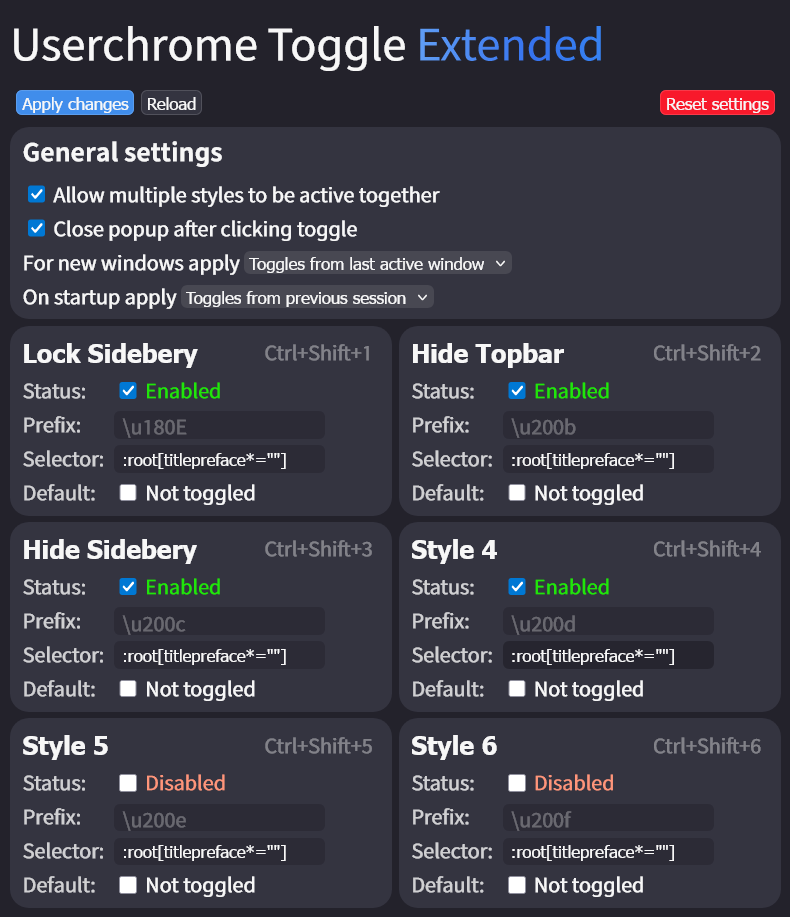
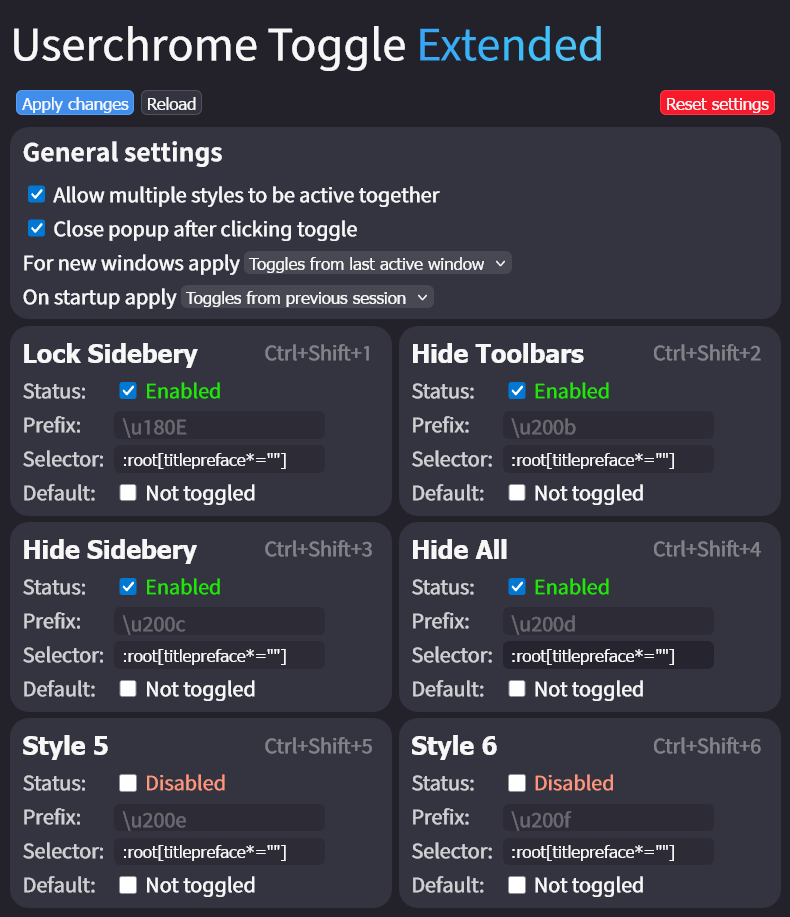
v3.3.1
Add shortcut for hiding all topbars and Sidebery.

Changed region(s): [[0.5165, 0.0305, 0.7595, 0.0916], [0.638, 0.3664, 0.7595, 0.3969], [0.5165, 0.5802, 0.638, 0.6107]]

diff --git a/chrome/components/uc-sidebar.css b/chrome/components/uc-sidebar.css
@@ -143,7 +143,7 @@
 
         /* When Sidebery's auto-collapse is disabled, limit the sidebar header width to the specified value */
         @media -moz-pref("uc.flex.disable-sidebery-autohide") and (not (-moz-pref("uc.flex.fully-hide-sidebery") or (display-mode: fullscreen))) {
-            :root:not([titlepreface*="\200c "]) & {
+            :root:not([titlepreface*="\200c "], [titlepreface*="\200d "]) & {
                 --sidebar-background-color: var(--uc-sidebar-bgcolor) !important;
                 #sidebar-header:not(:hover):not(:has(.active)) {
                     max-width: var(--uc-sidebar-header-width);
@@ -152,7 +152,11 @@
             }
         }
         @media not (-moz-pref("uc.flex.disable-sidebery-autohide") or -moz-pref("uc.flex.fully-hide-sidebery") or (display-mode: fullscreen)) {
-            :root:is([sidebar-expand-on-hover], [titlepreface*="\180e "]):not([titlepreface*="\200c "]) & {
+            :root:is([sidebar-expand-on-hover], [titlepreface*="\180e "]):not(
+                    [titlepreface*="\200c "],
+                    [titlepreface*="\200d "]
+                )
+                & {
                 --sidebar-background-color: var(--uc-sidebar-bgcolor) !important;
                 #sidebar-header:not(:hover):not(:has(.active)) {
                     max-width: var(--uc-sidebar-header-width);
@@ -208,7 +212,7 @@
         }
     }
     @media not -moz-pref("uc.flex.fully-hide-sidebery") {
-        :root[titlepreface*="\200c "] {
+        :root:is([titlepreface*="\200c "], [titlepreface*="\200d "]) {
             #sidebar-box[sidebarcommand="_3c078156-979c-498b-8990-85f7987dd929_-sidebar-action"]:not([hidden]) {
                 &:hover #sidebar-header:not(:hover):not(:has(.active)) {
                     min-height: 5px;
@@ -305,7 +309,7 @@
     }
 }
 @media not -moz-pref("uc.flex.fully-hide-sidebery") {
-    :root[titlepreface*="\200c "] {
+    :root:is([titlepreface*="\200c "], [titlepreface*="\200d "]) {
         #sidebar-box[sidebarcommand="_3c078156-979c-498b-8990-85f7987dd929_-sidebar-action"]:not([hidden]) {
             &:not(:is([positionend], [sidebar-positionend])) {
                 position: absolute !important;
@@ -363,7 +367,7 @@
         --uc-sb-sidebar-main-margin-top: 0px;
         --uc-sb-sidebar-main-stripe-height: 5px;
         @media -moz-pref("uc.flex.disable-bookmarks-autohide") and (not (-moz-pref("uc.flex.fully-hide-toolbox") or (display-mode: fullscreen))) {
-            :root:not([titlepreface*="\200b "]) & {
+            :root:not([titlepreface*="\200b "], [titlepreface*="\200d "]) & {
                 --uc-sb-sidebar-main-margin-top: var(--uc-bm-disable-autohide-offset);
             }
         }
@@ -406,7 +410,7 @@
                 --uc-sb-gradient-highlight: var(--uc-gradient-highlight);
             }
             @media -moz-pref("uc.flex.disable-sidebery-autohide") and (not (-moz-pref("uc.flex.fully-hide-sidebery") or (display-mode: fullscreen))) {
-                :root:not([titlepreface*="\200c "]) & {
+                :root:not([titlepreface*="\200c "], [titlepreface*="\200d "]) & {
                     --sidebar-background-color: var(--uc-sidebar-bgcolor) !important;
                     --uc-sb-sidebar-main-min-width: var(--uc-sidebar-header-width);
                     --uc-sb-sidebar-main-max-width: var(--uc-sidebar-header-width);
@@ -414,7 +418,10 @@
             }
         }
         @media not (-moz-pref("uc.flex.disable-sidebery-autohide") or -moz-pref("uc.flex.fully-hide-sidebery") or (display-mode: fullscreen)) {
-            :root:is([sidebar-expand-on-hover], [titlepreface*="\180e "]):not([titlepreface*="\200c "])
+            :root:is([sidebar-expand-on-hover], [titlepreface*="\180e "]):not(
+                    [titlepreface*="\200c "],
+                    [titlepreface*="\200d "]
+                )
                 &
                 #sidebar-main {
                 --sidebar-background-color: var(--uc-sidebar-bgcolor) !important;
@@ -432,7 +439,7 @@
             }
         }
         @media not -moz-pref("uc.flex.fully-hide-sidebery") {
-            :root[titlepreface*="\200c "] & {
+            :root:is([titlepreface*="\200c "], [titlepreface*="\200d "]) & {
                 #sidebar-main {
                     --uc-sb-sidebar-main-opacity: 0;
                 }
@@ -469,7 +476,7 @@
             }
         }
         @media not -moz-pref("uc.flex.fully-hide-sidebery") {
-            :root[titlepreface*="\200c "] & {
+            :root:is([titlepreface*="\200c "], [titlepreface*="\200d "]) & {
                 #sidebar-main {
                     --uc-sb-sidebar-main-min-width: var(--uc-sidebar-header-width);
                     --uc-sb-sidebar-main-max-width: var(--uc-sidebar-header-width);
@@ -926,7 +933,7 @@
         }
     }
     @media not -moz-pref("uc.flex.fully-hide-sidebery") {
-        :root[titlepreface*="\200c "] {
+        :root:is([titlepreface*="\200c "], [titlepreface*="\200d "]) {
             #navigator-toolbox {
                 z-index: calc(var(--browser-area-z-index-toolbox-while-animating) + 1) !important;
             }

diff --git a/chrome/components/uc-variables.css b/chrome/components/uc-variables.css
@@ -349,7 +349,7 @@
         }
     }
     @media not -moz-pref("uc.flex.fully-hide-sidebery") {
-        &[titlepreface*="\200c "] {
+        &:is([titlepreface*="\200c "], [titlepreface*="\200d "]) {
             --uc-nav-bar-first-child-padding-right: 0px;
         }
     }
@@ -465,7 +465,7 @@
             }
         }
         @media not -moz-pref("uc.flex.fully-hide-sidebery") {
-            :root[titlepreface*="\200c "] & {
+            :root:is([titlepreface*="\200c "], [titlepreface*="\200d "]) & {
                 --uc-sb-sidebar-width: 1px;
 
                 &[sizemode="normal"] {
@@ -506,7 +506,7 @@
                 --uc-tab-items-visibility: collapse;
             }
             @media not -moz-pref("uc.flex.fully-hide-toolbox") {
-                &[titlepreface*="\200b "] {
+                &:is([titlepreface*="\200b "], [titlepreface*="\200d "]) {
                     --uc-tab-items-visibility: collapse;
                 }
             }
@@ -568,7 +568,13 @@
     }
     /* Adjust horizontal offset of the bookmarks toolbar background image */
     @media not (-moz-pref("uc.flex.disable-bookmarks-autohide") or -moz-pref("uc.flex.fully-hide-toolbox") or -moz-pref("uc.flex.fully-hide-sidebery")) {
-        &:not([inFullscreen]):not([customizing]):not([titlepreface*="\200b "]):not([titlepreface*="\200c "]) {
+        &:not(
+                [inFullscreen],
+                [customizing],
+                [titlepreface*="\200b "],
+                [titlepreface*="\200c "],
+                [titlepreface*="\200d "]
+            ) {
             --uc-theme-bg-x-left-start: calc(-1 * var(--uc-sb-sidebar-width, 0px));
             @media -moz-pref("sidebar.verticalTabs") {
                 --uc-theme-bg-x-left-start: calc(-1 * var(--uc-sidebar-header-width));

diff --git a/chrome/components/uc-window-controls.css b/chrome/components/uc-window-controls.css
@@ -213,7 +213,7 @@
 
     /* Offset the navigator toolbox to account for the width of the vertical tabs */
     @media not -moz-pref("uc.flex.fully-hide-sidebery") {
-        &:not([titlepreface*="\200c "]) {
+        &:not([titlepreface*="\200c "], [titlepreface*="\200d "]) {
             @media -moz-pref("uc.flex.fully-hide-toolbox") {
                 #navigator-toolbox {
                     margin-left: var(--uc-navigator-offset);
@@ -244,7 +244,13 @@
 
 /* Offset bookmarks toolbar horizontally when Sidebery is visible to prevent overlap with sidebar */
 @media not (-moz-pref("uc.flex.fully-hide-toolbox") or -moz-pref("uc.flex.fully-hide-sidebery")) {
-    :root:not([inFullscreen]):not([customizing]):not([titlepreface*="\200b "]):not([titlepreface*="\200c "]) {
+    :root:not(
+            [inFullscreen],
+            [customizing],
+            [titlepreface*="\200b "],
+            [titlepreface*="\200c "],
+            [titlepreface*="\200d "]
+        ) {
         #PersonalToolbar {
             margin-left: var(--uc-personal-toolbar-offset);
             width: calc(100% - var(--uc-personal-toolbar-width));

diff --git a/chrome/components/uc-verticalfox.css b/chrome/components/uc-verticalfox.css
@@ -58,7 +58,7 @@
     @media not -moz-pref("uc.flex.disable-sidebery-autohide"),
         -moz-pref("uc.flex.fully-hide-sidebery"),
         (display-mode: fullscreen) {
-        :root:not([sidebar-expand-on-hover]):not([titlepreface*="\180e "]) & {
+        :root:not([sidebar-expand-on-hover], [titlepreface*="\180e "]) & {
             #sidebar {
                 will-change: min-width;
                 min-width: var(--uc-sb-sidebar-width) !important;
@@ -98,7 +98,7 @@
         }
     }
     @media not -moz-pref("uc.flex.fully-hide-sidebery") {
-        :root[titlepreface*="\200c "] & {
+        :root:is([titlepreface*="\200c "], [titlepreface*="\200d "]) & {
             #sidebar {
                 will-change: min-width;
                 min-width: var(--uc-sb-sidebar-width) !important;

diff --git a/chrome/components/uc-tabs-bar.css b/chrome/components/uc-tabs-bar.css
@@ -1,7 +1,7 @@
 /* Modified from https://github.com/MrOtherGuy/firefox-csshacks/blob/master/chrome/autohide_tabstoolbar_v2.css */
 /* be179ef */
 @media not (-moz-pref("sidebar.verticalTabs") or -moz-pref("uc.flex.fully-hide-toolbox") or -moz-pref("uc.flex.disable-tabs-toolbar-autohide")) {
-    :root:not([inFullscreen]):not([titlepreface*="\200b "]) {
+    :root:not([inFullscreen], [titlepreface*="\200b "], [titlepreface*="\200d "]) {
         /* Hide the native horizontal tab bar */
         &:not([customizing], [chromehidden~="menubar"]) #TabsToolbar {
             margin-bottom: var(--uc-autohide-bottom);

diff --git a/chrome/components/uc-bookmarks.css b/chrome/components/uc-bookmarks.css
@@ -2,7 +2,7 @@
 /* 2ea55cb */
 
 @media not (-moz-pref("uc.flex.disable-bookmarks-autohide") or -moz-pref("uc.flex.fully-hide-toolbox")) {
-    :root:not([inFullscreen]):not([titlepreface*="\200b "]) {
+    :root:not([inFullscreen], [titlepreface*="\200b "], [titlepreface*="\200d "]) {
         #PersonalToolbar {
             /* 0deg = "show" ; 90deg = "hide" ;  Set the following to control when bookmarks are shown */
             --uc-autohide-toolbar-focus-rotation: 0deg; /* urlbar is focused */

diff --git a/chrome/components/uc-navbar.css b/chrome/components/uc-navbar.css
@@ -163,7 +163,7 @@ toolbarbutton:hover {
 }
 
 @media not -moz-pref("uc.flex.fully-hide-toolbox") {
-    :root[titlepreface*="\200b "]:not([inFullscreen]) {
+    :root:is([titlepreface*="\200b "], [titlepreface*="\200d "]):not([inFullscreen]) {
         #navigator-toolbox {
             --browser-area-z-index-toolbox: 3;
             position: fixed !important;

diff --git a/chrome/userChrome.css b/chrome/userChrome.css
@@ -1,4 +1,4 @@
-/*            FlexFox v3.3.0            */
+/*            FlexFox v3.3.1            */
 /*      ____ _          ____            */
 /*     / __/ /__  _  __/ __/___  _  __  */
 /*    / /_/ / _ \| |/_/ /_/ __ \| |/_/  */

diff --git a/README_日本語版.md b/README_日本語版.md
@@ -18,9 +18,7 @@ FlexFox は Firefox をより快適で賢く、使いやすいブラウザに変
 
 ## 🆕 最新情報
 
-**🦊 v3.3.0**
-- `expand-on-hover` を有効にしている状態で `uc.flex.fully-hide-sidebery` またはフルスクリーンを併用した際に、Sidebery が展開されなくなる問題を修正しました。
-- サイドバー切り替えボタンが画面右端にあるときに、位置がずれる問題を修正しました。
+**🦊 v3.3.1**
 
 🚀 **新機能：ショートカットによる UI レイアウト切り替えに対応**
 
@@ -29,13 +27,14 @@ FlexFox は [UserChrome Toggle Extended](https://addons.mozilla.org/firefox/addo
 <img src="./assets/userchrome-toggle-extended.webp" alt="userchrome-toggle-extended.webp" width="65%" />  
 設定後は、左上の `Apply changes` ボタンをクリックするのを忘れずに。クリックしないと設定が反映されません。
 
-設定が完了すれば、次のショートカットキーで 3 種類の UI レイアウトを切り替えられます：
+設定が完了すれば、次のショートカットキーで 4 種類の UI レイアウトを切り替えられます：
 
 | ショートカット | 動作内容 |
 | ------------- | ------- |
 | <kbd>Ctrl</kbd> + <kbd>Shift</kbd> + <kbd>1</kbd> | Sidebery を自動折りたたみと常に展開の状態で切り替え。`uc.flex.disable-sidebery-autohide` オプションと同じレイアウト動作。 |
 | <kbd>Ctrl</kbd> + <kbd>Shift</kbd> + <kbd>2</kbd> | タブ・ナビゲーションバー・ブックマークバーなど、すべての上部ツールバーを完全に非表示に切り替え。隠れている時はマウスを画面上端に移動すると表示されます。`uc.flex.fully-hide-toolbox` と同様。 |
 | <kbd>Ctrl</kbd> + <kbd>Shift</kbd> + <kbd>3</kbd> | Sidebery を完全に非表示に切り替え。隠れている時はマウスを画面端に移動すると表示されます。`uc.flex.fully-hide-sidebery` と同様。 |
+| <kbd>Ctrl</kbd> + <kbd>Shift</kbd> + <kbd>4</kbd> | すべてのツールバーと Sidebery を隠し、ウェブページのコンテンツだけが表示される状態に切り替え。隠れている時はマウスを画面端に移動すると表示されます。レイアウトは `uc.flex.fully-hide-toolbox` と `uc.flex.fully-hide-sidebery` と同様の動作をします。 |
 
 > [!IMPORTANT]
 > `about:config` で有効にしているオプションはショートカットより優先され、状態が固定されます。ショートカットで切り替えを行うには、該当するオプションを `false` に設定してください。
@@ -48,6 +47,10 @@ FlexFox は [UserChrome Toggle Extended](https://addons.mozilla.org/firefox/addo
 <details>
 
 <summary>💬 <b>過去の更新</b></summary>
+
+**v3.3.0**
+- `expand-on-hover` を有効にしている状態で `uc.flex.fully-hide-sidebery` またはフルスクリーンを併用した際に、Sidebery が展開されなくなる問題を修正しました。
+- サイドバー切り替えボタンが画面右端にあるときに、位置がずれる問題を修正しました。
 
 **v3.2.8**
 - `uc.flex.add-bookmarks-left-margin` オプションを削除しました。現在は、ネイティブの縦型タブや Sidebery 使用時に、ナビゲーションバーの最初のアイテムの後ろに自動で余白が追加されます。これにより縦タブとの視覚的な整列が自然になり、ツールバーの他の項目と適度に区切られます。このスペースは、全画面表示や縦タブが非表示のときには自動で無効になります。

diff --git a/README.md b/README.md
@@ -18,9 +18,7 @@ It's not just a new look, it's a better way to browse.
 
 ## 🆕 What's New
 
-**🦊 v3.3.0**
-- Fixed an issue where Sidebery would not expand when using `expand-on-hover` together with `uc.flex.fully-hide-sidebery` or in fullscreen mode.
-- Resolved a display issue where the sidebar toggle button appeared misaligned when positioned on the far right of the screen.
+**🦊 v3.3.1**
 
 🚀 **Major Feature: Layout Switching via Hotkeys**
 
@@ -29,13 +27,14 @@ After installing and configuring the extension as shown below:
 <img src="./assets/userchrome-toggle-extended.webp" alt="userchrome-toggle-extended.webp" width="65%" />  
 Make sure to click the `Apply changes` button in the upper-left corner. The settings won't take effect until you do.
 
-Once set up, you can switch between three UI layout modes using keyboard shortcuts:
+Once set up, you can switch between four UI layout modes using keyboard shortcuts:
 
 | Shortcut | Action |
 | -------- | ------ |
 | <kbd>Ctrl</kbd> + <kbd>Shift</kbd> + <kbd>1</kbd> | Toggle between auto-collapsing and keeping Sidebery always open. Layout behaves like the `uc.flex.disable-sidebery-autohide` option. |
 | <kbd>Ctrl</kbd> + <kbd>Shift</kbd> + <kbd>2</kbd> | Toggle full hiding of all top toolbars (tabs, navigation bar, bookmarks bar). When hidden, moving your mouse to the top edge will reveal them. Matches `uc.flex.fully-hide-toolbox`. |
 | <kbd>Ctrl</kbd> + <kbd>Shift</kbd> + <kbd>3</kbd> | Toggle fully hiding Sidebery. When hidden, it reappears when the mouse reaches the screen edge. Matches `uc.flex.fully-hide-sidebery`. |
+| <kbd>Ctrl</kbd> + <kbd>Shift</kbd> + <kbd>4</kbd> | Toggle hiding all toolbars and Sidebery, leaving only the webpage content visible. When hidden, moving your mouse to the edge will reveal them. The layout behaves like `uc.flex.fully-hide-toolbox` + `uc.flex.fully-hide-sidebery`. |
 
 > [!IMPORTANT]
 > Options set in `about:config` take priority. If a related option is enabled there, it will override the toggle behavior and lock the layout state. To enable hotkey switching, make sure the corresponding option is set to `false`.
@@ -48,6 +47,10 @@ To change the default hotkeys, click the gear icon in the top-right corner and s
 <details>
 
 <summary>💬 <b>Previous Updates</b></summary>
+
+**v3.3.0**
+- Fixed an issue where Sidebery would not expand when using `expand-on-hover` together with `uc.flex.fully-hide-sidebery` or in fullscreen mode.
+- Resolved a display issue where the sidebar toggle button appeared misaligned when positioned on the far right of the screen.
 
 **v3.2.8**
 - Removed the `uc.flex.add-bookmarks-left-margin` option. Padding is now automatically added after the first item in the navigation bar when using native vertical tabs or Sidebery. This visually separates it from the rest of the toolbar items and aligns it more cleanly with the vertical tab column. The spacing adjusts dynamically and disables itself in fullscreen or when vertical tabs are hidden.

diff --git a/README_简体中文.md b/README_简体中文.md
@@ -18,9 +18,7 @@ FlexFox 让 Firefox 变得更快、更智能，也更顺手。
 
 ## 🆕 更新内容
 
-**🦊 v3.3.0**
-- 修复了在启用 `expand-on-hover` 并同时使用 `uc.flex.fully-hide-sidebery` 或处于全屏模式时，Sidebery 无法展开的问题。
-- 修复了侧边栏按钮位于屏幕最右侧时显示位置不正确的问题。
+**🦊 v3.3.1**
 
 🚀 **重大更新：支持通过快捷键切换 UI 布局**
 
@@ -29,13 +27,14 @@ FlexFox 现在支持扩展 [UserChrome Toggle Extended](https://addons.mozilla.o
 <img src="./assets/userchrome-toggle-extended.webp" alt="userchrome-toggle-extended.webp" width="65%" />  
 设置后，别忘了点击左上角的 `Apply changes` 按钮，否则设置不会生效。
 
-完成设置后，可通过快捷键切换三种 UI 布局模式：
+完成设置后，可通过快捷键切换四种 UI 布局模式：
 
 | 快捷键 | 功能说明 |
 | ------ | ------- |
 | <kbd>Ctrl</kbd> + <kbd>Shift</kbd> + <kbd>1</kbd> | 切换 Sidebery 自动折叠和保持展开的状态，保持展开的布局效果与选项 `uc.flex.disable-sidebery-autohide` 相同。 |
 | <kbd>Ctrl</kbd> + <kbd>Shift</kbd> + <kbd>2</kbd> | 切换是否完全隐藏顶部工具栏（标签页、导航栏、书签栏），隐藏时鼠标移到屏幕上方边缘可自动显示。对应选项 `uc.flex.fully-hide-toolbox`。 |
 | <kbd>Ctrl</kbd> + <kbd>Shift</kbd> + <kbd>3</kbd> | 切换是否完全隐藏 Sidebery，隐藏时鼠标移到屏幕边缘可自动显示。对应选项 `uc.flex.fully-hide-sidebery`。 |
+| <kbd>Ctrl</kbd> + <kbd>Shift</kbd> + <kbd>4</kbd> | 切换是否隐藏所有工具栏和 Sidebery，只剩下网页内容显示。隐藏时鼠标移到边缘时可自动显示。布局效果与 `uc.flex.fully-hide-toolbox` + `uc.flex.fully-hide-sidebery` 相同。 |
 
 > [!IMPORTANT]
 > 在 `about:config` 中设置的选项优先级更高。如果相关选项已启用，将会固定布局状态，快捷键将失效。若需使用快捷键切换，请将对应选项设为 `false`。
@@ -48,6 +47,10 @@ FlexFox 现在支持扩展 [UserChrome Toggle Extended](https://addons.mozilla.o
 <details>
 
 <summary>💬 <b>历史更新</b></summary>
+
+**v3.3.0**
+- 修复了在启用 `expand-on-hover` 并同时使用 `uc.flex.fully-hide-sidebery` 或处于全屏模式时，Sidebery 无法展开的问题。
+- 修复了侧边栏按钮位于屏幕最右侧时显示位置不正确的问题。
 
 **v3.2.8**
 - 移除 `uc.flex.add-bookmarks-left-margin` 选项。现在在使用原生垂直选项卡或 Sidebery 时，FlexFox 会自动在导航栏第一个项目后添加空隙，以便和垂直选项卡对齐，整体视觉上更整洁。这项功能会自动适配，在全屏或垂直选项卡隐藏时自动停用。
